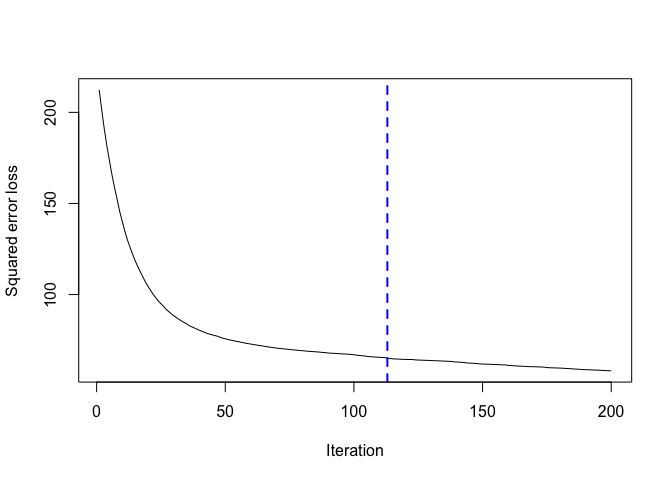
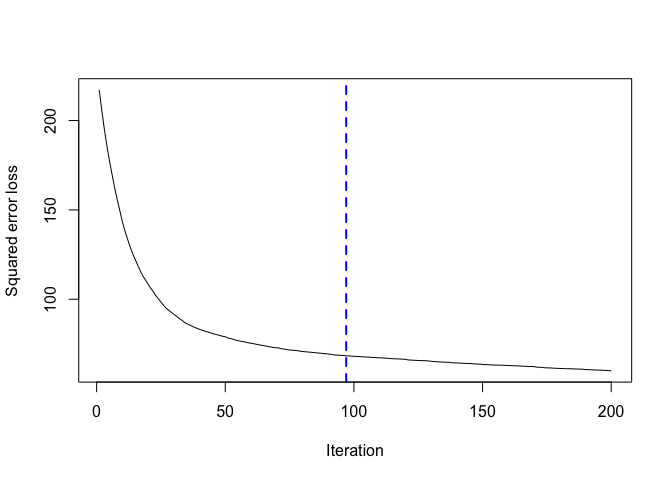
exercise3-1

diff --git a/exercise3-groupwork/exercise3-1/3-1.md b/exercise3-groupwork/exercise3-1/3-1.md
@@ -47,12 +47,12 @@ category rather than considering LEED and EnergyStar separately; also,
 for the number of degree days, I use heating and cooling separately
 rather than using a total number.
 
-Looking at the error curve: stops decreasing much at somewhere between
-100-200.
+Looking at the error curve: stops decreasing much at somewhere around
+100.
 
 ![](3-1_files/figure-markdown_strict/unnamed-chunk-3-1.png)
 
-    ## [1] 96
+    ## [1] 95
     ## attr(,"smoother")
     ## Call:
     ## loess(formula = object$oobag.improve ~ x, enp.target = min(max(4, 
@@ -60,7 +60,7 @@ Looking at the error curve: stops decreasing much at somewhere between
     ## 
     ## Number of Observations: 500 
     ## Equivalent Number of Parameters: 39.85 
-    ## Residual Standard Error: 0.09044
+    ## Residual Standard Error: 0.09901
 
 -   Then we refit with a more suitable number of iterations:
     n.trees=200.
@@ -72,11 +72,11 @@ Looking at the error curve: stops decreasing much at somewhere between
     ##     shrinkage = 0.05)
     ## A gradient boosted model with gaussian loss function.
     ## 200 iterations were performed.
-    ## There were 18 predictors of which 16 had non-zero influence.
+    ## There were 18 predictors of which 17 had non-zero influence.
 
 ![](3-1_files/figure-markdown_strict/unnamed-chunk-5-1.png)
 
-    ## [1] 113
+    ## [1] 97
     ## attr(,"smoother")
     ## Call:
     ## loess(formula = object$oobag.improve ~ x, enp.target = min(max(4, 
@@ -84,14 +84,14 @@ Looking at the error curve: stops decreasing much at somewhere between
     ## 
     ## Number of Observations: 200 
     ## Equivalent Number of Parameters: 16.06 
-    ## Residual Standard Error: 0.156
+    ## Residual Standard Error: 0.1787
 
 -   Calculate the RMSE
 
 As we can see the result, the RMSE is relatively low, which means the
 model works pretty good.
 
-    ## [1] 8.692981
+    ## [1] 8.217881
 
 -   Relative importance measures: how much each variable reduces the MSE
 
@@ -101,23 +101,23 @@ important factors.
 ![](3-1_files/figure-markdown_strict/unnamed-chunk-7-1.png)
 
     ##                                 var     rel.inf
-    ## cluster_rent           cluster_rent 71.17073776
-    ## size                           size 13.53533650
-    ## leasing_rate           leasing_rate  5.74012801
-    ## age                             age  3.05879064
-    ## stories                     stories  2.02300521
-    ## class_a                     class_a  1.28910586
-    ## cluster                     cluster  1.00309732
-    ## cd_total_07             cd_total_07  0.68523544
-    ## class_b                     class_b  0.39029323
-    ## Electricity_Costs Electricity_Costs  0.36576964
-    ## Precipitation         Precipitation  0.35811266
-    ## hd_total07               hd_total07  0.12837134
-    ## amenities                 amenities  0.09574291
-    ## renovated                 renovated  0.06396301
-    ## Gas_Costs                 Gas_Costs  0.05028124
-    ## green_rating           green_rating  0.04202923
-    ## empl_gr                     empl_gr  0.00000000
+    ## cluster_rent           cluster_rent 69.70056503
+    ## size                           size 15.10282787
+    ## leasing_rate           leasing_rate  4.49347693
+    ## age                             age  3.07961186
+    ## stories                     stories  1.97790676
+    ## Precipitation         Precipitation  1.45957229
+    ## class_a                     class_a  1.36793467
+    ## cluster                     cluster  1.05795106
+    ## Electricity_Costs Electricity_Costs  0.61787388
+    ## hd_total07               hd_total07  0.27660316
+    ## class_b                     class_b  0.24903823
+    ## cd_total_07             cd_total_07  0.19274276
+    ## Gas_Costs                 Gas_Costs  0.12374182
+    ## amenities                 amenities  0.11094221
+    ## renovated                 renovated  0.10275100
+    ## empl_gr                     empl_gr  0.04660769
+    ## green_rating           green_rating  0.03985278
     ## net                             net  0.00000000
 
 Average change in Rent associated with green certification
@@ -128,8 +128,8 @@ Average change in Rent associated with green certification
 ![](3-1_files/figure-markdown_strict/unnamed-chunk-8-1.png)
 
     ##   green_rating     yhat
-    ## 1            0 28.48336
-    ## 2            1 28.66386
+    ## 1            0 28.37241
+    ## 2            1 28.46349
 
 As we can see in the result, the green certification don’t have a huge
 impact on rental income per square foot, having green certification
